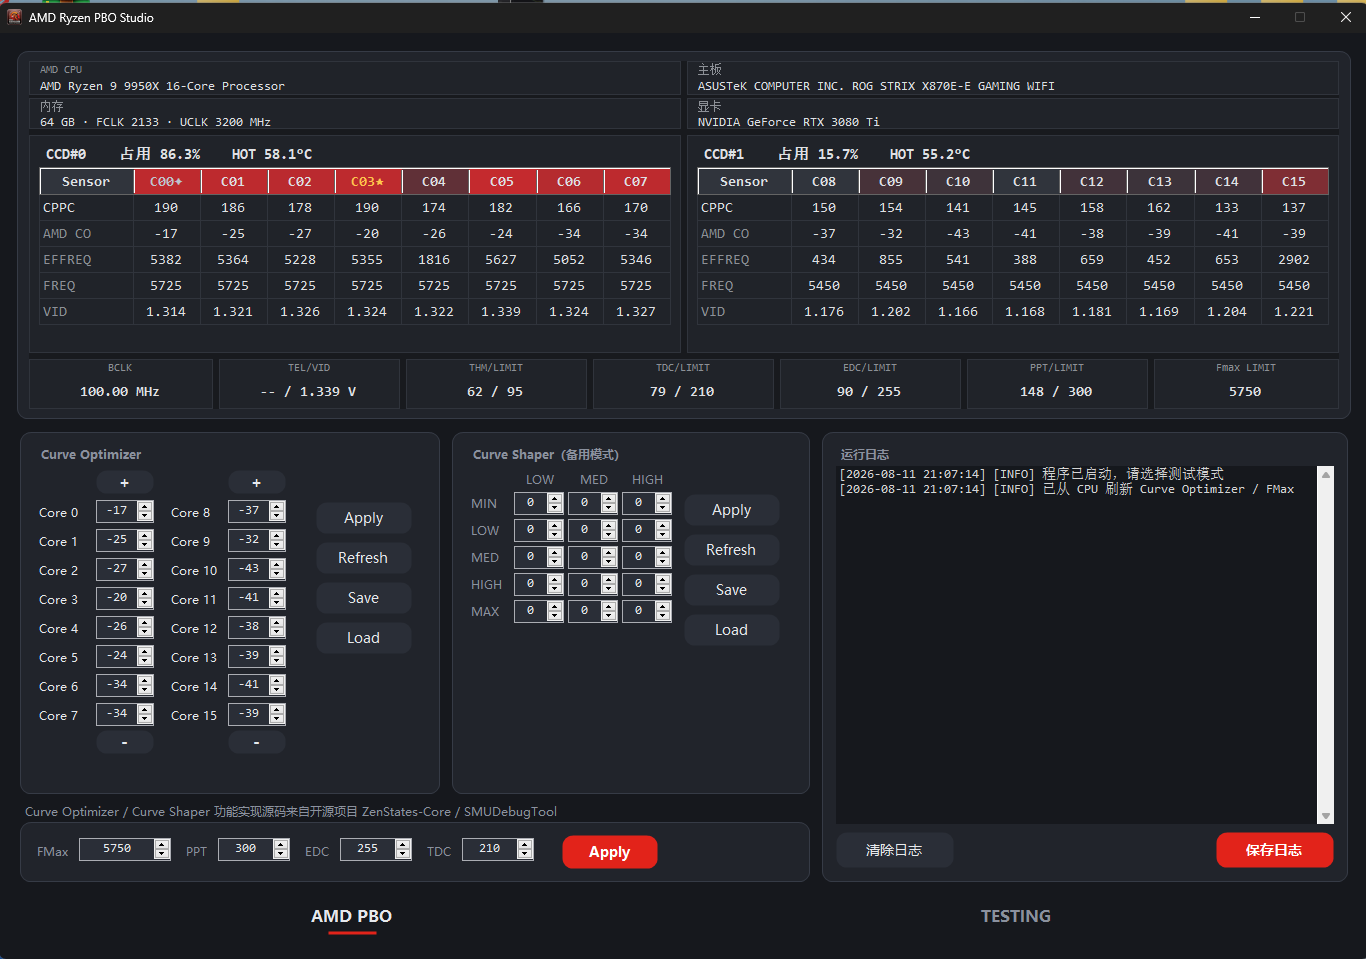
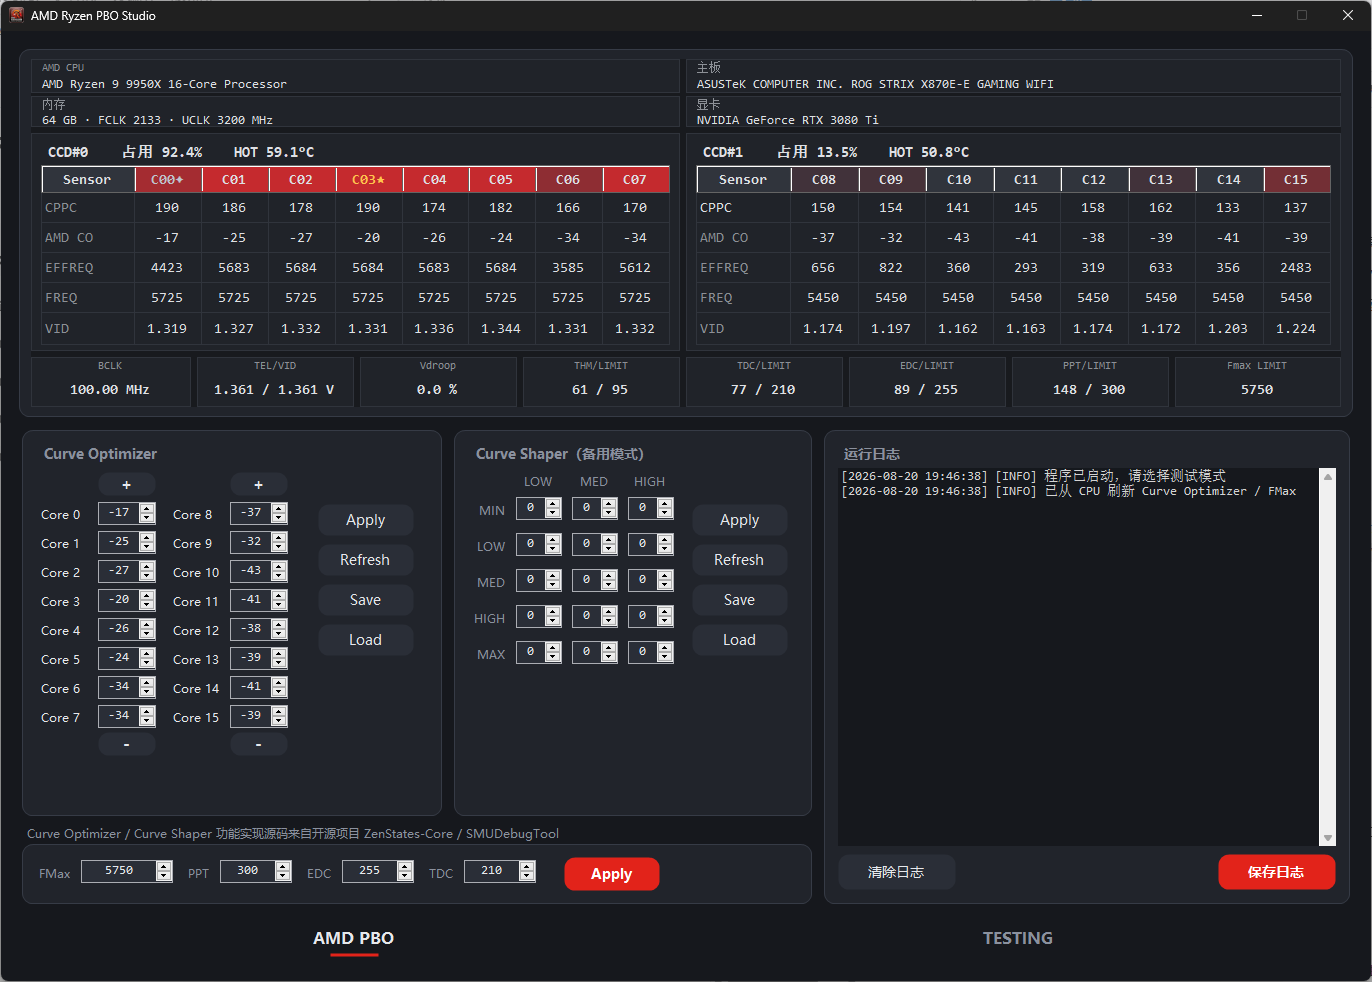
Update README and screenshots for v2.1.0
- State Ryzen 5000 support, and add a table of what differs per generation
  (Curve Shaper, FMax writes and CPPC are not uniformly available).
- Document the test scope options: all cores, a custom selection, a single
  CCD, or each CCD in turn.
- Correct the PawnIO note. Every hardware access goes through it -- SMU
  mailbox commands, MSRs and SMN registers -- not just Curve Optimizer.
- Refresh both screenshots.

diff --git a/README.md b/README.md
@@ -1,6 +1,6 @@
 # AMD Ryzen PBO Studio
 
-面向 AMD Ryzen 7000/9000 系列 CPU 的 PBO Studio 调节工具
+面向 AMD Ryzen CPU 的 PBO Studio 调节工具 (现已支持5000/7000/9000系CPU)
 ![主界面](pbo.png)
 
 ![测试页](testing.png)
@@ -9,30 +9,43 @@
 
 ### 实时监控
 
-频率读数优先采用 HW P-state 快照（MSR `0xC0010293`），与 HWiNFO 的 Core Clock 同源同口径；
-若检测到 HWiNFO 正在运行并已开启共享内存，则直接采用其读数以保证一致。
+频率读数优先采用 HW P-state 快照 MSR `0xC0010293`
+若 HWiNFO 正在运行并已开启共享内存，则直接采用HWINFO传感器数据为准。
 
 ### 手动调参
 
 - **Curve Optimizer**：逐物理核心设置负压偏移，支持配置存档与载入
-- **Curve Shaper**：5 个频率档 × 3 个温度档的完整网格 (7000系CPU不支持)
-- **PBO 限制**：FMax、PPT、EDC、TDC 一次性下发
+- **Curve Shaper**：5 个频率档 × 3 个温度档的完整网格 
+- **PBO Limit**：FMax、PPT、EDC、TDC 一次性下发 
 
 ### 自动负压测试
 
 提供三种压测编排：
 
-| 模式 | 说明 |
-|---|---|
+| 模式 | 说明                                                         |
+| ---- | ------------------------------------------------------------ |
 | 单项 | 从 VT3、BKT、SVT、BBP、SFTv4、SNT、FFTv4、N63 中指定一种算法 |
-| 顺序 | VT3 → BKT → SVT 依次执行，默认 20 / 10 / 10 轮 |
-| 组合 | 三种算法同时施压，默认 10 轮 |
+| 顺序 | VT3 → BKT → SVT 依次执行，默认 20 / 10 / 10 轮             |
+| 组合 | VT3,BKT,SVT三种算法组合测试，默认 10 轮                      |
 
-每轮时长与轮数可自行设定。测试过程中若 y-cruncher 报出运算错误，程序解析出错的逻辑核心并
-映射到物理核心，将其负压回退一档（默认 +2）后重跑整轮，直至通过。调整方向单调，只朝更保守
-的一侧移动，不会往复震荡。
+每轮时长与轮数可自行设定，默认120s/轮
 
-也可切换为手动模式：报错时仅提示并停止，不改动任何已设定的参数。
+测试范围可再行限定：
+
+| 范围     | 说明                                     |
+| -------- | ---------------------------------------- |
+| 全部核心 | 所有核心一起压测                         |
+| 自定义   | 自行勾选参与压测的核心                   |
+| 单个 CCD | 只压指定的那个 CCD（双 CCD可见）        |
+| 逐 CCD   | 每个 CCD 各跑一遍完整轮次（双 CCD可见） |
+
+限定范围后，未选中的核心保持空闲。需要注意单 CCD 压测时功耗预算集中在被测 CCD 上，频率会高于
+全核负载的情形，得到的结论不能直接套用到全核。
+
+测试过程中若 y-cruncher 报出运算错误，程序解析出错的逻辑核心并
+映射到物理核心，将其负压回退一档（默认 +2）后重跑整轮，直至通过。
+
+可切换为手动模式：报错时仅提示并停止，不改动任何已设定的参数。
 
 ### 异常中断恢复
 
@@ -40,13 +53,25 @@
 
 ## 环境要求
 
-| 项目 | 要求 |
-|---|---|
-| 处理器 | AMD Ryzen 7000 / 9000 系 CPU |
-| 操作系统 | Windows 10 / 11 x64 |
-| 运行时 | [.NET 8 Desktop Runtime](https://dotnet.microsoft.com/download/dotnet/8.0)（需 Desktop 版本，ASP.NET Core Runtime 不适用） |
-| 驱动 | [PawnIO](https://pawnio.eu)。Curve Optimizer 的读写经由它访问 SMU，未安装则无法启动 |
-| 权限 | 必须以管理员身份运行 |
+| 项目     | 要求                                                                                                      |
+| -------- | --------------------------------------------------------------------------------------------------------- |
+| 处理器   | AMD Ryzen 5000 / 7000 / 9000 系 CPU                                                                       |
+| 操作系统 | Windows 10 / 11 x64                                                                                       |
+| 运行环境 | [.NET 8 Desktop Runtime](https://dotnet.microsoft.com/download/dotnet/8.0)                                 |
+| 驱动     | [PawnIO](https://pawnio.eu)。程序的全部硬件读写（SMU 命令、MSR、SMN 寄存器）都经由它进行，未安装则无法启动 |
+| 权限     | 管理员身份运行                                                                                            |
+
+各世代可用的功能有所差异：
+
+| 功能            | 5000 系               | 7000 系 | 9000 系 |
+| --------------- | --------------------- | ------- | ------- |
+| Curve Optimizer | 支持                  | 支持    | 支持    |
+| Curve Shaper    | 不支持                | 不支持  | 支持    |
+| PPT / EDC / TDC | 支持                  | 支持    | 支持    |
+| 修改 FMax       | 不支持                | 支持    | 支持    |
+| CPPC 核心排名   | 需在 BIOS 中开启 CPPC | 支持    | 支持    |
+
+5000 系的 CPPC 读数取自 Windows 内核电源事件，BIOS 中未开启 CPPC 时该行显示为空。
 
 ## 使用
 
@@ -87,9 +112,9 @@ dotnet publish .\RyzenPboStudio\RyzenPboStudio.csproj -c Release -r win-x64 --se
 
 ## 作者
 
-DY冷漠_OC调试 —— [@lengmo23](https://github.com/lengmo23)
+ [@lengmo23](https://github.com/lengmo23)
 
-Copyright © 2026 DY冷漠_OC调试
+Copyright © 2026 [@lengmo23](https://github.com/lengmo23)
 
 ## 许可
 
